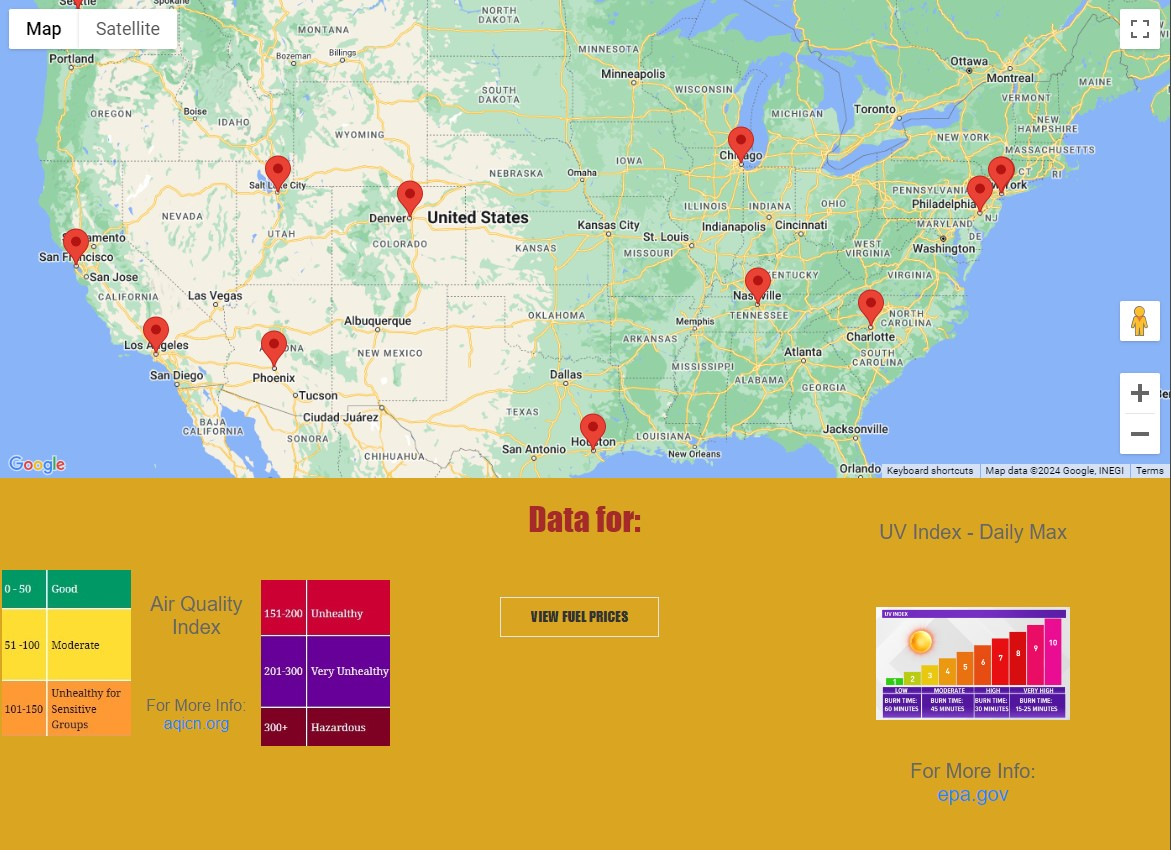
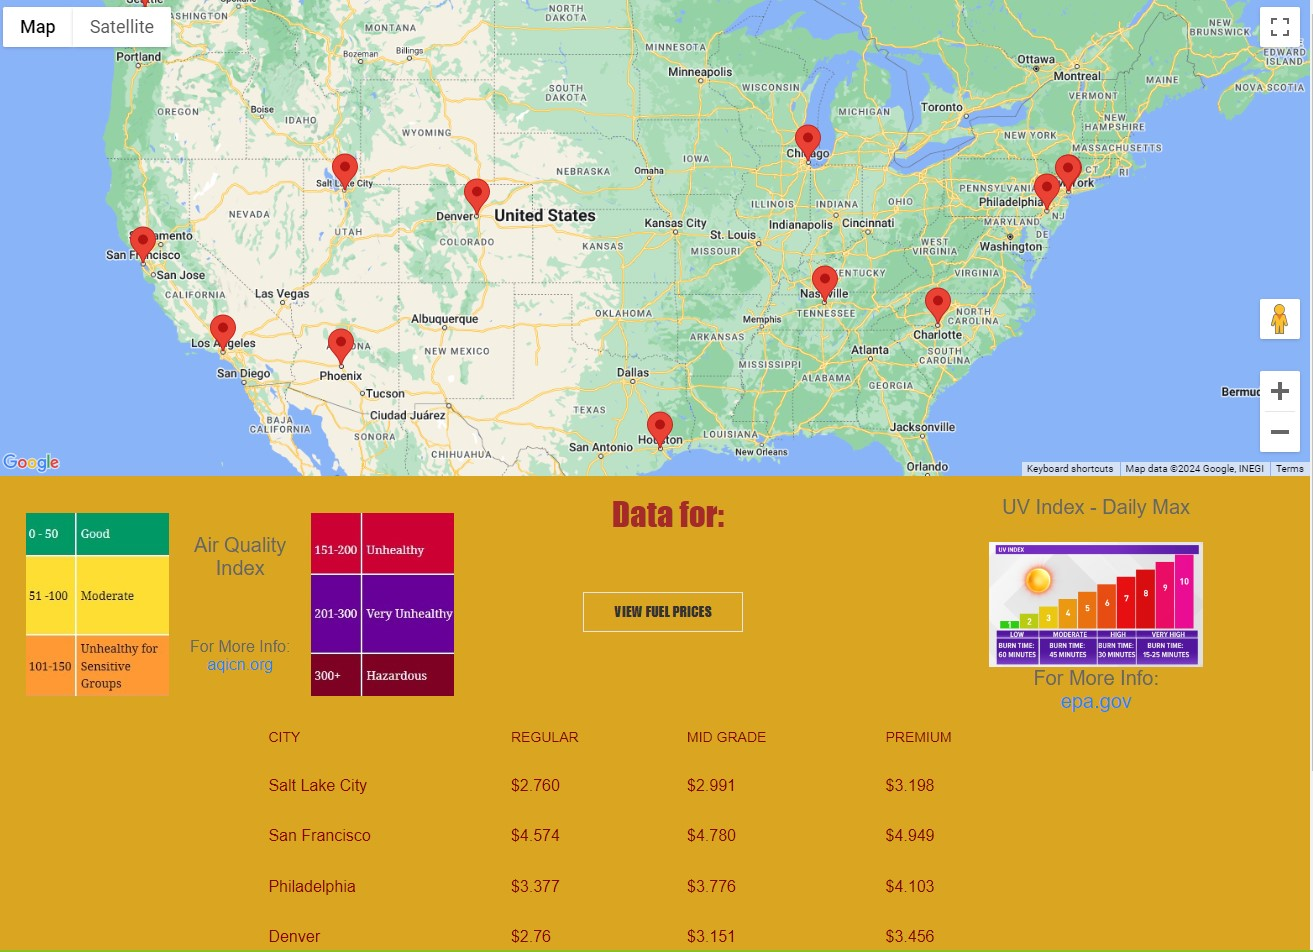
more readme, finished table, rounded gas prices

diff --git a/assets/js/script.js b/assets/js/script.js
@@ -18,6 +18,7 @@ var lon= 0;
 var cityClick;
 var localData;
 var locaqi;
+var tbody = document.querySelector("#bodyTable");
 
 function getCity(event) {
 
@@ -47,7 +48,7 @@ function getCity(event) {
      var dataQ = data;
      lat = dataQ[0].lat;
      lon = dataQ[0].lon;
-    var apiUV = "openuv-rupcfgrls3xrllu-io"
+    var apiUV = "openuv-rupcfgrls3xp3tf-io"
     fetch(`https://api.openuv.io/api/v1/uv?lat=${lat}&lng=${lon}`, {
       method: 'GET',
       headers: {
@@ -78,25 +79,55 @@ function getGasData() {
   gasDataUrl= gasEndPoint + lon + "&lat=" + lat;
   fetch(gasDataUrl, {
       headers: {
-          'authorization': 'apikey 5ckicsZ4HYYUCe73BbPN3e:6dYxg270wFh5He9d4LUUFl',
+          'authorization': 'apikey 3ZTBTe6yHfTYDORVYw9xh1:4Vi3MuMsBKyLjPWZnK8Ifn',
           'content-type': 'application/json'
       }})
       .then(function(response){
           return response.json();
       })
       .then(function(data){
-        var regGasPrice = data.result.gasoline;
-        var midGasPrice = data.result.midGrade;
-        var preGasPrice = data.result.premium;
+        var regGasPrice = Math.round(data.result.gasoline*100)/100;
+        var midGasPrice = Math.round(data.result.midGrade*100)/100;
+        var preGasPrice = Math.round(data.result.premium*100)/100;
         cityNamed.textContent = cityClick;
           regGas.textContent = regGasPrice;
           midGas.textContent = midGasPrice;
           preGas.textContent = preGasPrice;
-      }
-      )
-  };
-  
-  activateModal.addEventListener("click", getGasData);
+          var localgas = {
+            city: cityClick,
+            reg: regGasPrice,
+            mid: midGasPrice,
+            pre: preGasPrice
+          };
+         var gasRowJson=JSON.parse(localStorage.getItem('localgas')) || [];
+         gasRowJson.push(localgas);
+         if (gasRowJson.length > 8){
+           gasRowJson.shift();
+          };
+          localStorage.setItem('localgas', JSON.stringify(gasRowJson));
+          createTable();
+        }
+        )
+      };
+      
+function createTable(){
+  var gasRowJson=JSON.parse(localStorage.getItem('localgas')) || [];
+  for (i=0; i<gasRowJson.length; i++){
+    var trow = document.createElement("tr");
+    $(trow).append("<td>" + gasRowJson[i].city + "</td><td>$" + gasRowJson[i].reg + 
+    "</td><td>$" + gasRowJson[i].mid + "</td><td>$" + gasRowJson[i].pre + "</td></tr>");
+    tbody.append(trow);
+  }
+}      
+
+window.addEventListener("load", createTable());
+
+activateModal.addEventListener("click", function() {
+  if (!cityClick){
+    pickCity.textContent="Please select a marker";
+    return;
+  }else{
+    getGasData()}});
 
 //Click on map starts function
 mapClick.addEventListener('click', getCity);

diff --git a/index.html b/index.html
@@ -36,6 +36,7 @@
       <gmp-advanced-marker position="40.7608, -111.8910" title="Salt Lake City"></gmp-advanced-marker>
       <gmp-advanced-marker position="39.7392, -104.9903" title="Denver"></gmp-advanced-marker>
       <gmp-advanced-marker position="40.7178, -74.0431" title="Jersey City"></gmp-advanced-marker>
+      <gmp-advanced-marker position="25.7617, -80.1918" title="Miami"></gmp-advanced-marker>
     </gmp-map>
   </div>
 
@@ -57,8 +58,8 @@
                  uk-toggle="target: #modal-example" >View Fuel Prices</button>
           <a  href="#modal-example" uk-toggle ></a>
           <div id="modal-example" uk-modal>
-            <div class="uk-modal-dialog uk-modal-body">
-             <h2 class="uk-modal-title">Average Fuel Prices</h2>
+            <div class="uk-modal-dialog uk-modal-body" id="modalel">
+             <h2 class="uk-modal-title" id="modaltitle">Average Fuel Prices</h2>
               <p id="citynamed"></p>
               <p><span>Regular Gasoline  $</span><span id="reggas"></span></p>
               <p><span>Mid-Grade Gasoline  $</span><span id="midgas"></span></p>
@@ -82,9 +83,9 @@
         <thead>
           <tr>
             <th>City</th>
-            <th>Air Quality Index</th>
-            <th>UV Index</th>
-            <th>Date</th>
+            <th>Regular</th>
+            <th>Mid Grade</th>
+            <th>Premium</th>
           </tr>
         </thead>
         <tbody id="bodyTable"></tbody>

diff --git a/assets/css/style.css b/assets/css/style.css
@@ -7,12 +7,21 @@ body {
   width: 100%;
   justify-content: center;
 }
+#modalel{
+  background-color: aqua;
+}
+#modaltitle{
+  text-decoration: underline;
+}
 #data_block p{ 
   margin: 0 !important;
 }
 .tble{
-  width: 80%;
+  width: 60%;
   margin: auto;
+}
+th, tr {
+  color: darkred !important;
 }
 #fuelbut{
   margin:20px;
@@ -60,6 +69,7 @@ body {
 #datatag,
 #uvtag {
     width: 99%;
+    margin-top: 5px;
 }
 button{
     font-size: 10px;
@@ -67,4 +77,7 @@ button{
 #fuelbut{
     margin:2px;
 } 
+.tble{ 
+    width:90%;
+}
 }

diff --git a/README.md b/README.md
@@ -1,25 +1,27 @@
-# Project_One
+# Select Cities Environmental and Gas Prices
 
 ## Description
 
-As professional developers, we created a google map that consists of cities that you can visit. We provided informative details about each city such as the air quality, UV index, longtitude and latitude.Our motivation for creating this project was to help those that are visiting specific cities. The most important thing we learned was how to work as an efficient team and bring about a project that works.
+As professional developers, we created a google map that consists of cities that you can visit. We provided informative details about each city such as the air quality, UV index, average gas pricing within selected city, longtitude and latitude. Our motivation for creating this project was to help those that are visiting major cities. The most important thing we learned was how to work as an efficient team and bring about a project that works.
 
 
 ## Installation:
 
+
 ## Usage:
- ![alt text](assets/images/screenshot.jpg)
+ ![Initial page](assets/images/screenshot.jpg)
+ ![With city picked](assets/images/screenshot_picked.jpg)
+ ![With gas price search](assets/images/screenshot_gas.jpg)
 
 
 ## Credits
-
-"https://cdn.jsdelivr.net/npm/uikit@3.18.0/dist/css/uikit.min.css"
-https://cdn.jsdelivr.net/npm/uikit@3.18.0/dist/js/uikit.min.js
-https://cdn.jsdelivr.net/npm/uikit@3.18.0/dist/js/uikit-icons.min.js
-https://cdn.jsdelivr.net/npm/purecss@3.0.0/build/base-min.css
-https://cdn.jsdelivr.net/npm/purecss@3.0.0/build/pure-min.css
-https://maps.googleapis.com/maps/api/js?key=AIzaSyByqpH9S7WL4KUefelxOFdmNypoSlwTANI&callback=console.debug&libraries=maps,marker&v=beta
-
+We utilized the uikit and pure frameworks to create many pieces of this app.  
+We optained data from the following api's:
+ google maps -- map markers
+ openuv.io -- UV Index
+ collect.api.com -- gas prices
+ aqicn.org -- Air Quality Index
+ openweathermap.org -- longitude and latitude data
 
 ## MIT License
 
